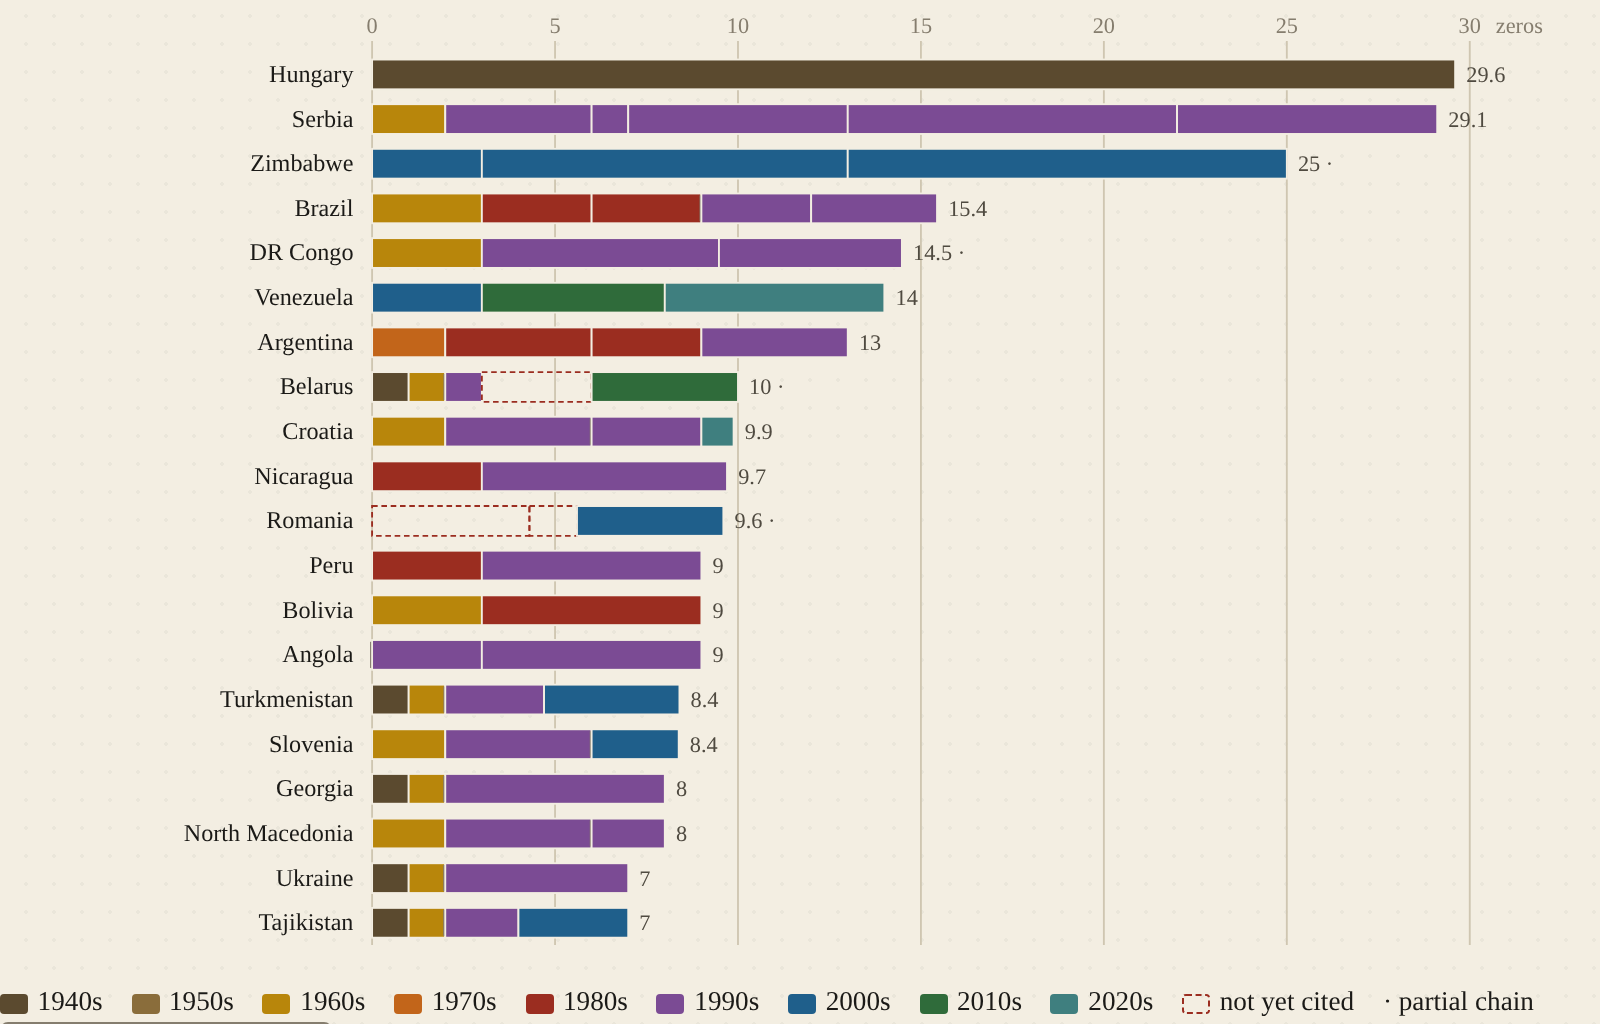
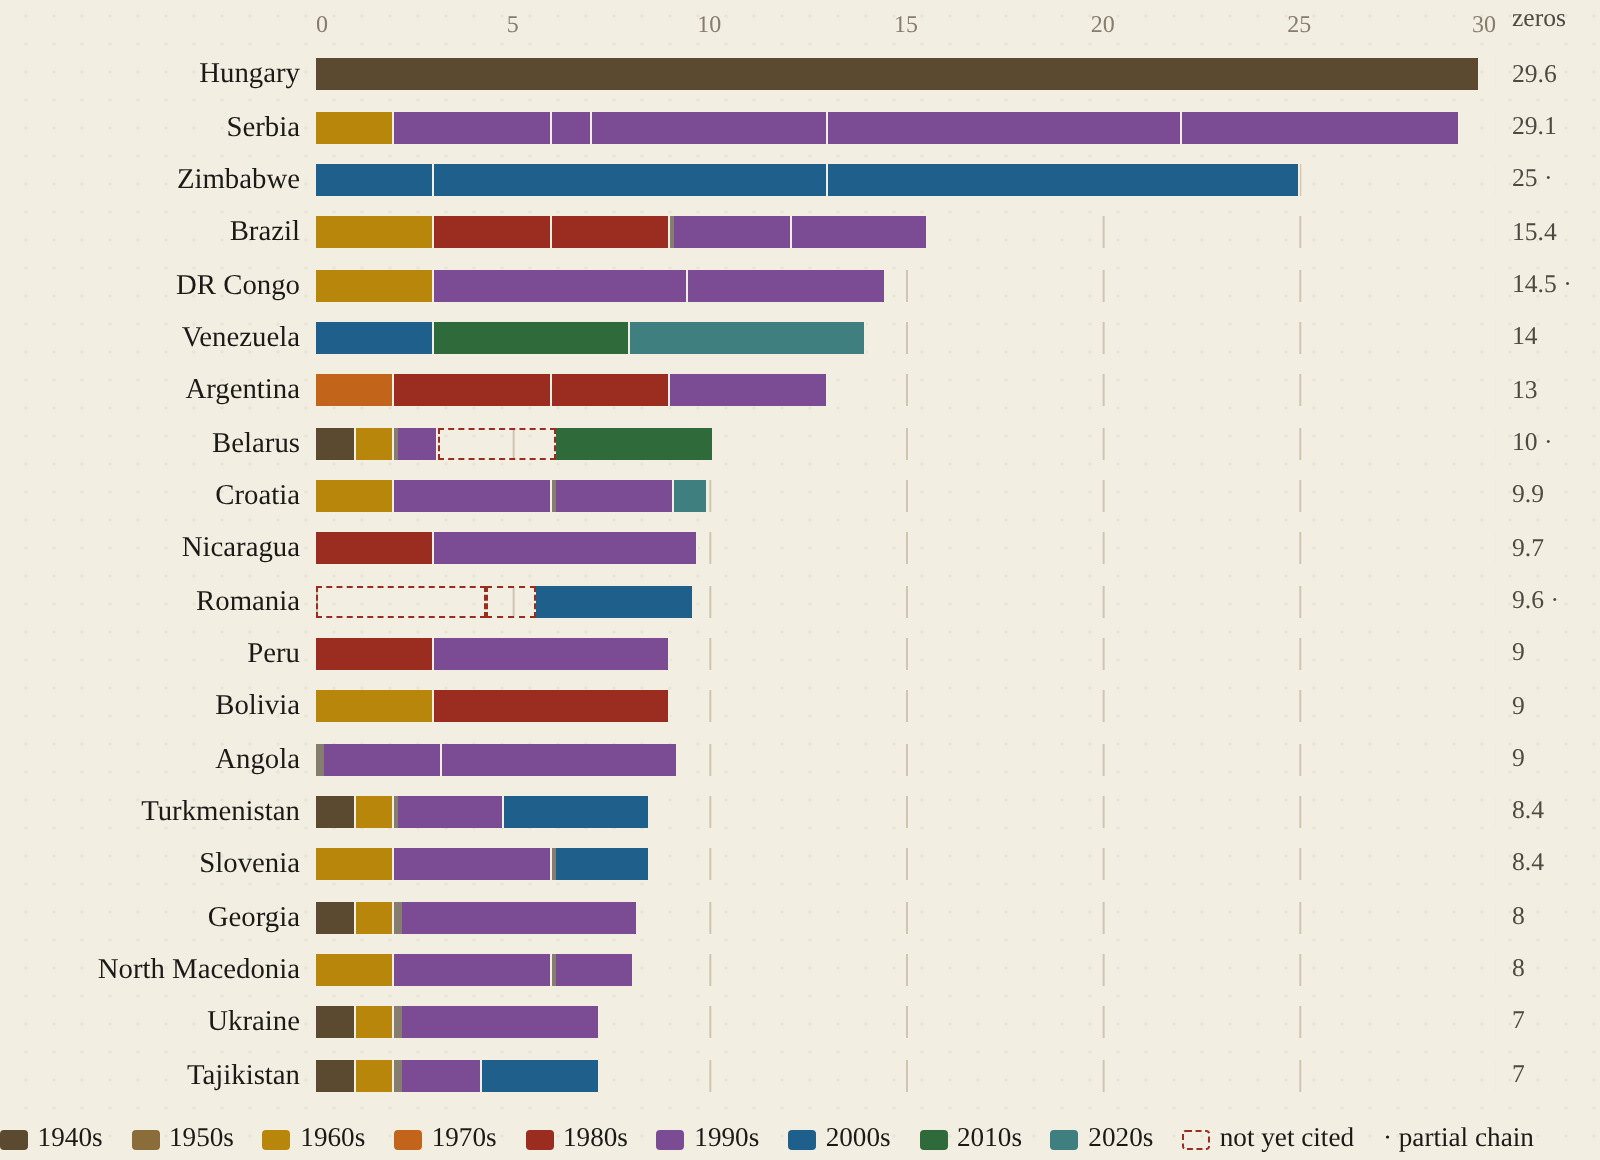
Draw the chart as HTML bars so it stays readable on phones; document the pipeline

diff --git a/site/app.js b/site/app.js
@@ -88,37 +88,27 @@ function chart() {
   if (chartSort === "recent") rows = [...rows].sort((a, b) => b.segs[b.segs.length - 1].step.year - a.segs[a.segs.length - 1].step.year);
   if (chartSort === "name") rows = [...rows].sort((a, b) => a.c.name.localeCompare(b.c.name));
   const shown = chartShowAll ? rows : rows.slice(0, 20);
-  const W = 860, L = 200, R = 70, T = 28, rowH = 24, B = 8;
-  const H = T + shown.length * rowH + B;
   const maxZ = Math.ceil(Math.max(...rows.map((r) => r.total)) / 5) * 5;
-  const X = (z) => L + (z / maxZ) * (W - L - R);
-  let svg = `<svg viewBox="0 0 ${W} ${H}" role="img" aria-label="Zeros removed per country since 1945, one segment per reform">`;
-  for (let z = 0; z <= maxZ; z += 5) {
-    svg += `<line class="grid" x1="${X(z)}" x2="${X(z)}" y1="${T - 6}" y2="${H - B}"/><text class="axis" x="${X(z)}" y="${T - 10}" text-anchor="middle">${z}</text>`;
-  }
-  svg += `<text class="axis" x="${W - R + 14}" y="${T - 10}">zeros</text>`;
-  shown.forEach((r, i) => {
-    const y = T + i * rowH;
+  const ticks = [];
+  for (let z = 0; z <= maxZ; z += 5) ticks.push(`<span style="left:${(z / maxZ) * 100}%">${z}</span>`);
+  let html = `<div class="bars" role="img" aria-label="Zeros removed per country since 1945, one segment per reform">` +
+    `<div class="bar-row axis-row"><span class="bar-name"></span><span class="bar-track axis">${ticks.join("")}</span><span class="bar-total">zeros</span></div>`;
+  for (const r of shown) {
     const label = r.c.name.replace(/ \(.*\)/, "");
-    svg += `<text class="name" x="${L - 10}" y="${y + 16}" text-anchor="end">${esc(label.length > 24 ? label.slice(0, 23) + "…" : label)}</text>`;
-    let x = L;
+    let segs = "";
     for (const sg of r.segs) {
       const decade = Math.floor(sg.step.year / 10) * 10;
-      const tip = `${esc(r.c.name)} — ${sg.step.year}: ${esc(sg.step.old)} → ${esc(sg.step.new)}, ÷ ${sg.step.rate.toLocaleString("en-US")} (${sg.z % 1 ? sg.z.toFixed(2) : sg.z} zeros)${sg.uncited ? " · not yet cited" : ""}`;
-      if (sg.z === 0) {
-        svg += `<line class="tick" x1="${x}" x2="${x}" y1="${y + 5}" y2="${y + 19}" data-tip="${tip} — at par"/>`;
-        continue;
-      }
-      const w = Math.max(X(sg.z) - L, 2);
-      svg += `<rect class="seg${sg.uncited ? " uncited" : ""}" x="${x}" y="${y + 4}" width="${w}" height="16" fill="${DECADE_COLOURS[decade] ?? "#888"}" data-tip="${tip}"/>`;
-      x += w;
+      const tip = `${r.c.name} — ${sg.step.year}: ${sg.step.old} → ${sg.step.new}, ÷ ${sg.step.rate.toLocaleString("en-US")} (${sg.z % 1 ? sg.z.toFixed(2) : sg.z} zeros)${sg.uncited ? " · not yet cited" : ""}`;
+      if (sg.z === 0) { segs += `<i class="tick" data-tip="${esc(tip)} — at par"></i>`; continue; }
+      segs += `<i class="seg${sg.uncited ? " uncited" : ""}" style="width:${(sg.z / maxZ) * 100}%;background:${DECADE_COLOURS[decade] ?? "#888"}" data-tip="${esc(tip)}"></i>`;
     }
-    svg += `<text class="total" x="${x + 6}" y="${y + 16}">${r.total % 1 ? r.total.toFixed(1) : r.total}${r.c.status === "partial" ? " ·" : ""}</text>`;
-  });
-  svg += "</svg>";
-  svg += `<div class="legend">${DECADES.filter((d) => shown.some((r) => r.segs.some((sg) => Math.floor(sg.step.year / 10) * 10 === d)))
+    html += `<div class="bar-row"><span class="bar-name" title="${esc(r.c.name)}">${esc(label)}</span><span class="bar-track" style="background-size:${100 / (maxZ / 5)}% 100%">${segs}</span>` +
+      `<span class="bar-total">${r.total % 1 ? r.total.toFixed(1) : r.total}${r.c.status === "partial" ? " ·" : ""}</span></div>`;
+  }
+  html += "</div>";
+  html += `<div class="legend">${DECADES.filter((d) => shown.some((r) => r.segs.some((sg) => Math.floor(sg.step.year / 10) * 10 === d)))
     .map((d) => `<span><i style="background:${DECADE_COLOURS[d]}"></i>${d}s</span>`).join("")}<span><i style="border:1px dashed var(--red)"></i>not yet cited</span><span>· partial chain</span></div>`;
-  $("#chart").innerHTML = svg;
+  $("#chart").innerHTML = html;
   $("#chart-more").textContent = chartShowAll ? "Show the top 20" : `Show all ${rows.length} countries`;
 }
 chart();

diff --git a/site/styles.css b/site/styles.css
@@ -79,15 +79,21 @@ input:focus-visible, select:focus-visible { outline: 3px solid var(--gold); outl
 .hero-number span::before { content: " "; }
 .hero-figure figcaption { font-size: .95rem; color: var(--ink-2); margin-top: .3rem; }
 
-/* Chart */
-#chart svg { width: 100%; height: auto; display: block; font-family: var(--serif); }
-#chart .grid { stroke: var(--line); }
-#chart .axis { fill: var(--ink-3); font-size: 12px; }
-#chart .name { font-size: 13px; fill: var(--ink); }
-#chart .total { font-size: 12px; fill: var(--ink-2); font-variant-numeric: tabular-nums; }
-#chart .seg { cursor: pointer; stroke: var(--paper); stroke-width: 1; }
-#chart .seg.uncited { fill: none !important; stroke: var(--red); stroke-dasharray: 3 2; }
-#chart .tick { stroke: var(--ink-3); stroke-width: 2; }
+/* Chart: HTML bars so they scale to any width */
+.bars { display: flex; flex-direction: column; gap: 4px; }
+.bar-row { display: grid; grid-template-columns: minmax(84px, 150px) 1fr 44px; align-items: center; gap: .5rem; min-height: 22px; }
+.bar-name { font-size: .9rem; text-align: right; white-space: nowrap; overflow: hidden; text-overflow: ellipsis; }
+.bar-track { position: relative; display: flex; height: 16px; background-image: repeating-linear-gradient(90deg, var(--line) 0 1px, transparent 1px 100%); background-size: 16.6667% 100%; /* overridden inline from the axis */ }
+.bar-track .seg { display: block; height: 100%; min-width: 2px; cursor: pointer; box-shadow: inset -1px 0 0 var(--paper); }
+.bar-track .seg.uncited { background: transparent !important; border: 1px dashed var(--red); box-sizing: border-box; }
+.bar-track .tick { display: block; width: 2px; height: 100%; background: var(--ink-3); cursor: pointer; }
+.bar-total { font-size: .8rem; color: var(--ink-2); font-variant-numeric: tabular-nums; white-space: nowrap; }
+.axis-row { min-height: 18px; margin-bottom: 2px; }
+.bar-track.axis { height: 14px; background: none; }
+.bar-track.axis span { position: absolute; top: 0; transform: translateX(-50%); font-size: .75rem; color: var(--ink-3); }
+.bar-track.axis span:first-child { transform: none; }
+.bar-track.axis span:last-child { transform: translateX(-100%); }
+@media (max-width: 480px) { .bar-row { grid-template-columns: 84px 1fr 36px; } .bar-name { font-size: .8rem; } }
 .legend { display: flex; flex-wrap: wrap; gap: .3rem .9rem; font-size: .85rem; margin-top: .6rem; }
 .legend i { display: inline-block; width: 14px; height: 10px; vertical-align: middle; margin-right: .3rem; border-radius: 2px; }
 .btn { font: inherit; font-size: .95rem; min-height: 44px; padding: .4rem 1rem; border: 1px solid var(--ink-3); border-radius: 4px;

diff --git a/README.md b/README.md
@@ -52,6 +52,28 @@ The plan is to grow this country by country: add the next 10–20 chains, cite
 each step against a central-bank or statutory source, and let the tests keep
 the "verified" count truthful.
 
+## How the data moves
+
+```mermaid
+flowchart LR
+  wiki[Wikipedia redenomination table] -->|transcribed by hand| build1[build_redenominations.py]
+  reg[Council Regulation 2866/98<br/>ECB press releases<br/>Bundesbank] -->|cited per step| build2[build_countries.py]
+  build1 --> red[(redenominations.json)]
+  build2 --> cty[(countries.json)]
+  wb[World Bank API<br/>PA.NUS.FCRF, FP.CPI.TOTL] -->|daily job| hist[(history.json)]
+  names[mledoze/countries] -->|daily job| hist
+  fx[currency-api via jsDelivr] -->|daily job| rates[(rates.json)]
+  red & cty --> tests[tests: chains unbroken,<br/>every verified step cited,<br/>rates match the table]
+  red & cty & hist & rates --> engine[site/engine.js<br/>tested with node:test]
+  engine --> page[the page, GitHub Pages]
+```
+
+Three GitHub Actions workflows: `ci.yml` rebuilds the JSON from the Python
+sources and fails if it differs from what is committed, then runs both test
+suites; `rates.yml` runs daily, refreshes the exchange-rate files, commits them
+when they change and redeploys; `pages.yml` runs the tests and publishes
+`site/`, then checks that the live URL answers.
+
 ## Where the numbers come from
 
 - The table of reforms is transcribed from the
